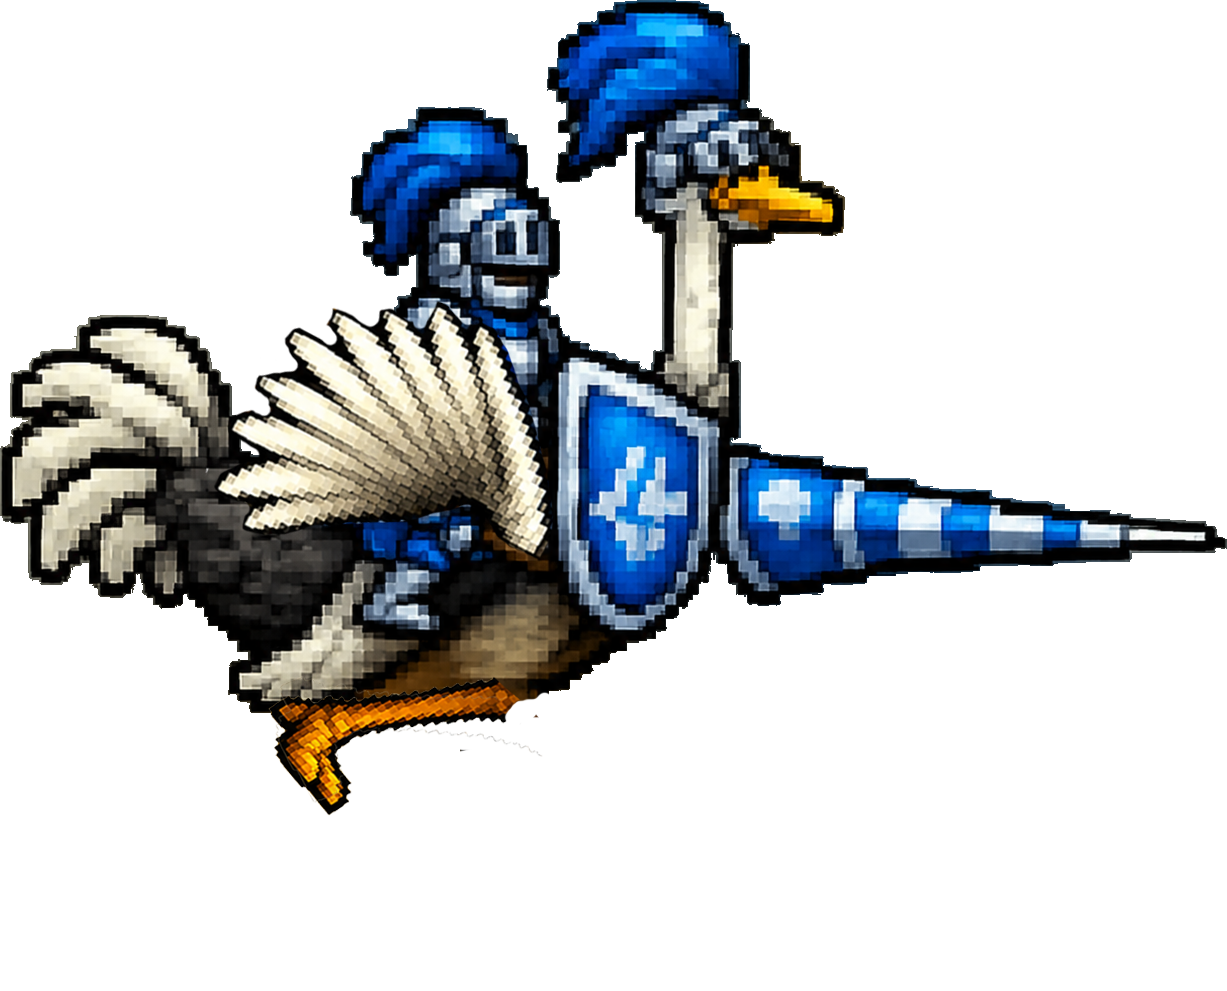
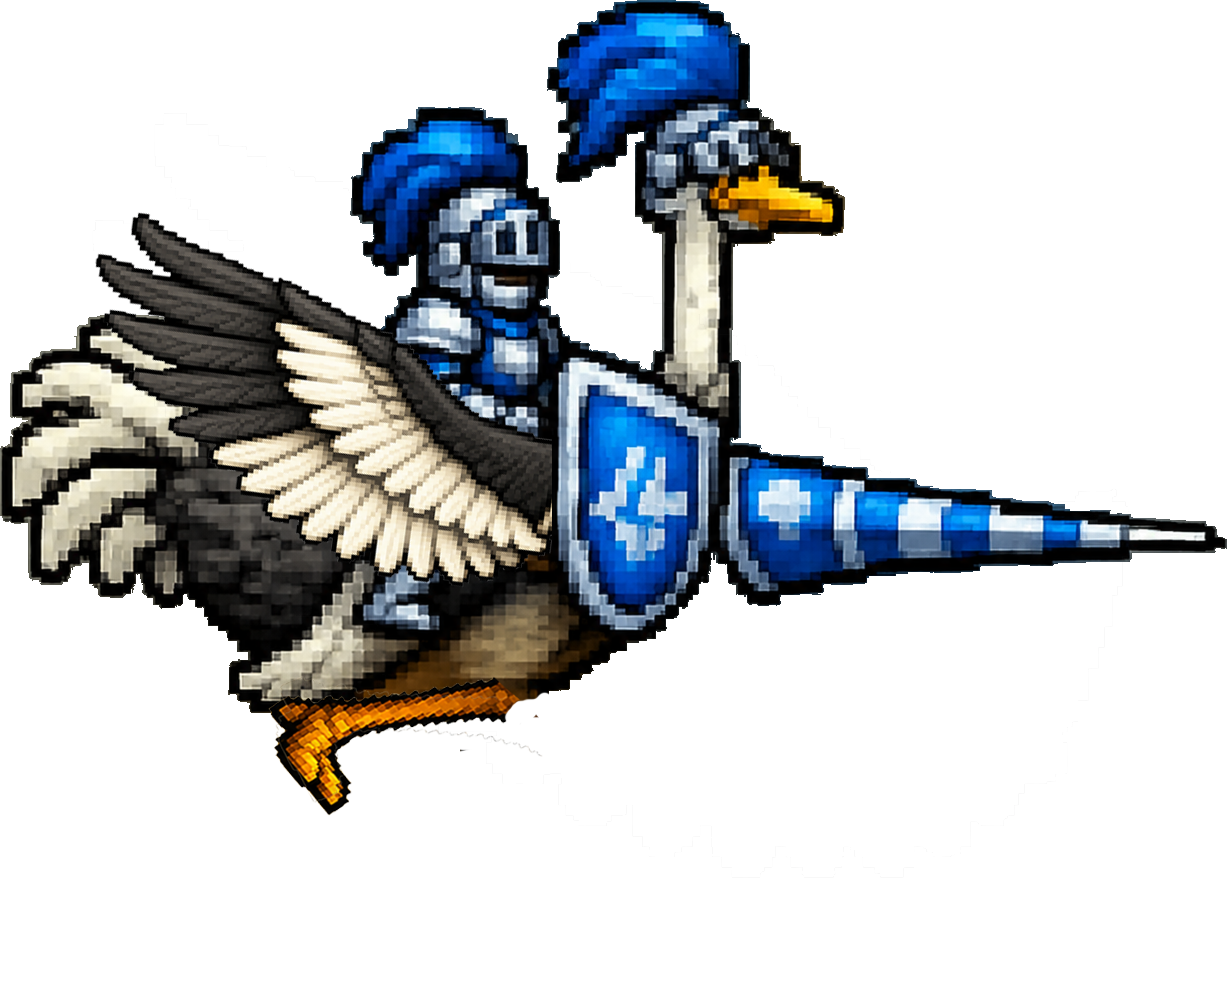
Joust v0.26: platform sprites + base + score window + canvas 900x680

Changed region(s): [[0.0619, 0.2119, 0.4645, 0.6054]]

diff --git a/games/joust.html b/games/joust.html
@@ -3,7 +3,7 @@
 <head>
 <meta charset="UTF-8">
 <meta name="viewport" content="width=device-width, initial-scale=1.0">
-<title>JOUST v0.25 — Arcade Reactor</title>
+<title>JOUST v0.26 — Arcade Reactor</title>
 <link rel="icon" type="image/png" sizes="32x32" href="../assets/favicon-32.png">
 <style>
   * { box-sizing: border-box; }
@@ -17,7 +17,7 @@
     min-height: 100vh;
   }
   .wrap {
-    position: relative; width: 800px; height: 600px;
+    position: relative; width: 900px; height: 680px;
     max-width: 100vw; max-height: 100vh;
     aspect-ratio: 4 / 3;
   }
@@ -85,7 +85,7 @@
 <body>
   <a href="../index.html" class="back-link">← ARCADE REACTOR</a>
   <div class="wrap">
-    <canvas id="game" width="800" height="600"></canvas>
+    <canvas id="game" width="900" height="680"></canvas>
     <div class="hud">
       <div class="hud-section">
         <div><span class="hud-label">SCORE</span><span class="hud-value" id="score">0</span></div>
@@ -102,12 +102,12 @@
       <p style="margin-top: 16px;">A/D or ←→ to move · Space/W/↑ to flap</p>
       <button id="startBtn">START</button>
     </div>
-    <div class="version-tag" id="versionTag">v0.25</div>
+    <div class="version-tag" id="versionTag">v0.26</div>
   </div>
 
 <script>
 //──────────────────────────────────────────────────────────────────────────────
-// JOUST v0.25 — Arcade Reactor
+// JOUST v0.26 — Arcade Reactor
 //──────────────────────────────────────────────────────────────────────────────
 
 const canvas = document.getElementById('game');
@@ -120,6 +120,7 @@ ctx.imageSmoothingEnabled = false;
 
 //── Sprites ──────────────────────────────────────────────────────────────────
 const sprites = {
+  // Birds
   ostrich: new Image(),
   ostrichMove: new Image(),
   ostrichFly: new Image(),
@@ -128,6 +129,18 @@ const sprites = {
   buzzardMove: new Image(),
   buzzardFly: new Image(),
   buzzardFly2: new Image(),
+  // Platform sprites
+  base: new Image(),
+  floorone: new Image(),
+  floortwoleft: new Image(),
+  floortworight: new Image(),
+  floorthreemiddle: new Image(),
+  floorfourleft: new Image(),
+  floorfourright: new Image(),
+  floorfourfarright: new Image(),
+  floorfivemiddle: new Image(),
+  floorsixleft: new Image(),
+  floorsixright: new Image(),
 };
 sprites.ostrich.src     = '../assets/joust/ostrich.png';
 sprites.ostrichMove.src = '../assets/joust/ostrichmove.png';
@@ -137,6 +150,17 @@ sprites.buzzard.src     = '../assets/joust/buzzard.png';
 sprites.buzzardMove.src = '../assets/joust/buzzardmove.png';
 sprites.buzzardFly.src  = '../assets/joust/buzzardfly.png';
 sprites.buzzardFly2.src = '../assets/joust/buzzardfly2.png';
+sprites.base.src              = '../assets/joust/base.png';
+sprites.floorone.src          = '../assets/joust/floorone.png';
+sprites.floortwoleft.src      = '../assets/joust/floortwoleft.png';
+sprites.floortworight.src     = '../assets/joust/floortworight.png';
+sprites.floorthreemiddle.src  = '../assets/joust/floorthreemiddle.png';
+sprites.floorfourleft.src     = '../assets/joust/floorfourleft.png';
+sprites.floorfourright.src    = '../assets/joust/floorfourright.png';
+sprites.floorfourfarright.src = '../assets/joust/floorfourfarright.png';
+sprites.floorfivemiddle.src   = '../assets/joust/floorfivemiddle.png';
+sprites.floorsixleft.src      = '../assets/joust/floorsixleft.png';
+sprites.floorsixright.src     = '../assets/joust/floorsixright.png';
 
 //── Constants ─────────────────────────────────────────────────────────────────
 const GRAVITY        = 280;    // px/sec² — ANTI-gravity feel; speed-boosted flaps dominate
@@ -158,9 +182,9 @@ const BIRD_JOUST_INSET_X = 12;  // horizontal inset for joust collision (exclude
 const LANCE_OFFSET_Y = 22;     // lance is in the MIDDLE of the sprite (helmet above, body below)
 const LANCE_TOLERANCE= 9;      // pixels — if lances within this, both bounce
 
-const LAVA_TOP       = H - 40;
-const LAVA_LEFT_END    = 100;     // lava covers x=0..this on the left bottom
-const LAVA_RIGHT_START = W - 100; // lava covers this..W on the right bottom
+const LAVA_TOP       = H - 50;     // lava surface height
+const LAVA_LEFT_END    = 120;       // matches BASE_WALK_X_START — death zone is corner flame area
+const LAVA_RIGHT_START = W - 120;   // matches BASE_WALK_X_END
 const CEILING        = 28;     // hard ceiling near top
 
 const ENEMY_SPAWN_INTERVAL = 4.0; // sec between spawns (early game)
@@ -198,33 +222,79 @@ const overlay  = document.getElementById('overlay');
 const startBtn = document.getElementById('startBtn');
 
 //── Platforms ────────────────────────────────────────────────────────────────
-// y = top of platform; thickness rendered downward 10px
-// Layout matches the original Joust arcade screenshot:
-//   - Wide rocky BASE platform across the bottom middle (lava on either side)
-//   - Two small corner LEDGES at the very top
-//   - One upper-mid platform
-//   - Two mid platforms (left/right)
-//   - One lower-center platform
-const platforms = [
-  // Top corner ledges (small)
-  { x: 20,  y: 90,  w: 110 },
-  { x: 670, y: 90,  w: 110 },
-  // Upper-mid (single, slightly off-center)
-  { x: 320, y: 200, w: 160 },
-  // Mid level (left and right)
-  { x: 110, y: 320, w: 170 },
-  { x: 520, y: 320, w: 170 },
-  // Lower-center (the "special" platform)
-  { x: 310, y: 440, w: 180 },
-  // BASE — wide rocky floor with lava gaps at the sides
-  { x: 100, y: H - 40, w: 600 },
-];
-const PLATFORM_THICKNESS = 10;
+// Each platform references one of the loaded sprites for rendering.
+// Position is the top-left of the SPRITE; collision uses sprite naturalWidth.
+// Layout matches the joust_field reference image (6 floating rows + base).
+//
+// MIKE: tune these (x, y) positions to nudge the layout. The widths come from
+// the sprite files themselves (loaded async), so they self-size correctly.
+const PLATFORM_THICKNESS = 14;  // top "walking surface" thickness for collision
 
-// Spawn position — center of the BASE platform (x=100, y=H-40, w=600).
-// Materializes there with a sparkle effect at the start of each life.
-const SPAWN_X = 100 + 300 - BIRD_W / 2;  // centered on base
-const SPAWN_Y = (H - 40) - BIRD_H;       // sitting on top of base platform
+const platforms = [
+  // Row 1: single top platform
+  { sprite: 'floorone',          x: 380, y:  95 },
+  // Row 2: left & right small ledges (high)
+  { sprite: 'floortwoleft',      x: 110, y: 180 },
+  { sprite: 'floortworight',     x: 620, y: 180 },
+  // Row 3: single mid platform
+  { sprite: 'floorthreemiddle',  x: 380, y: 290 },
+  // Row 4: left, right, and far-right small
+  { sprite: 'floorfourleft',     x:  60, y: 360 },
+  { sprite: 'floorfourright',    x: 480, y: 360 },
+  { sprite: 'floorfourfarright', x: 770, y: 390 },
+  // Row 5: wide middle platform
+  { sprite: 'floorfivemiddle',   x: 330, y: 460 },
+  // Row 6: low left and right
+  { sprite: 'floorsixleft',      x: 150, y: 540 },
+  { sprite: 'floorsixright',     x: 600, y: 540 },
+];
+
+// The BASE platform is special — spans the full width with built-in score
+// window and corner flame lanterns. Its collision shape excludes the corner
+// flame zones (those are death zones, equivalent to lava).
+const BASE_HEIGHT_GUESS = 110;             // approximate base sprite height
+const BASE_TOP_Y_FALLBACK = H - BASE_HEIGHT_GUESS;
+const BASE_WALK_X_START = 120;             // left edge of safe walking area (right of left flame)
+const BASE_WALK_X_END   = W - 120;         // right edge of safe walking area (left of right flame)
+const BASE_WALK_TOP_Y_INSET = 28;          // how far below the sprite top the walkable surface sits
+
+// Returns the current base platform collision rect — computed each frame
+// from the base sprite's actual size so it stays accurate as sprites load.
+function getBaseCollisionRect() {
+  const baseH = (sprites.base && sprites.base.complete && sprites.base.naturalHeight > 0)
+                ? sprites.base.naturalHeight
+                : BASE_HEIGHT_GUESS;
+  const topY = H - baseH + BASE_WALK_TOP_Y_INSET;
+  return {
+    x: BASE_WALK_X_START,
+    y: topY,
+    w: BASE_WALK_X_END - BASE_WALK_X_START,
+    sprite: 'base',
+    isBase: true,
+  };
+}
+
+// Returns the platform width for collision — uses sprite naturalWidth if
+// loaded, falls back to a sane default.
+function platformWidth(p) {
+  const s = sprites[p.sprite];
+  if (s && s.complete && s.naturalWidth > 0) return s.naturalWidth;
+  return 160; // fallback width
+}
+
+// Returns the active platforms list for collision/rendering (floats + base).
+function getAllPlatforms() {
+  const out = [];
+  for (const p of platforms) {
+    out.push({ x: p.x, y: p.y, w: platformWidth(p), sprite: p.sprite });
+  }
+  out.push(getBaseCollisionRect());
+  return out;
+}
+
+// Spawn position — center of the base platform's safe walking area.
+const SPAWN_X = (BASE_WALK_X_START + BASE_WALK_X_END) / 2 - BIRD_W / 2;
+const SPAWN_Y = BASE_TOP_Y_FALLBACK + BASE_WALK_TOP_Y_INSET - BIRD_H;
 
 //── Player ───────────────────────────────────────────────────────────────────
 const player = {
@@ -530,7 +600,8 @@ function updateLivesHUD() {
 // Call AFTER updating b.x with vx * dt. Pushes the bird back out the
 // side it came from.
 function resolveHorizontalPlatformCollisions(b) {
-  for (const p of platforms) {
+  const allP = getAllPlatforms();
+  for (const p of allP) {
     const bb = birdBox(b);
     const pb = { x: p.x, y: p.y, w: p.w, h: PLATFORM_THICKNESS };
     if (rectOverlap(bb, pb)) {
@@ -541,12 +612,10 @@ function resolveHorizontalPlatformCollisions(b) {
   }
 }
 
-// Resolve vertical collisions for a bird against all platforms.
-// Call AFTER updating b.y with vy * dt. Returns true if the bird is
-// now standing on top of a platform (used for onGround tracking).
 function resolveVerticalPlatformCollisions(b) {
   let onGround = false;
-  for (const p of platforms) {
+  const allP = getAllPlatforms();
+  for (const p of allP) {
     const bb = birdBox(b);
     const pb = { x: p.x, y: p.y, w: p.w, h: PLATFORM_THICKNESS };
     if (rectOverlap(bb, pb)) {
@@ -848,7 +917,8 @@ function update(dt) {
       if (egg.x > W) egg.x = -EGG_W;
 
       // Try to land on a platform
-      for (const p of platforms) {
+      const allP = getAllPlatforms();
+      for (const p of allP) {
         if (egg.vy >= 0 &&
             egg.x + EGG_W > p.x && egg.x < p.x + p.w &&
             egg.y + EGG_H >= p.y && egg.y + EGG_H <= p.y + PLATFORM_THICKNESS + Math.abs(egg.vy * dt) + 2) {
@@ -1025,67 +1095,81 @@ function drawBackground() {
 }
 
 function drawPlatforms() {
-  for (const p of platforms) {
-    // Body
+  // First the base (rendered scaled to canvas width, bottom-anchored)
+  const baseS = sprites.base;
+  if (baseS && baseS.complete && baseS.naturalWidth > 0) {
+    const baseW = baseS.naturalWidth;
+    const baseH = baseS.naturalHeight;
+    const scale = W / baseW;
+    const drawH = baseH * scale;
+    ctx.drawImage(baseS, 0, H - drawH, W, drawH);
+    // Cover the placeholder "0123456789" digits with the actual score.
+    drawBaseScoreOverlay(drawH);
+  } else {
+    // Fallback: dark slab
     ctx.fillStyle = COLOR_PLATFORM;
-    ctx.fillRect(p.x, p.y, p.w, PLATFORM_THICKNESS);
-    // Top edge (slightly brighter for definition)
+    ctx.fillRect(0, H - 80, W, 80);
     ctx.fillStyle = COLOR_PLATFORM_EDGE;
-    ctx.fillRect(p.x, p.y, p.w, 2);
+    ctx.fillRect(BASE_WALK_X_START, H - 80, BASE_WALK_X_END - BASE_WALK_X_START, 2);
+  }
+
+  // Then the floating platforms
+  for (const p of platforms) {
+    const s = sprites[p.sprite];
+    if (s && s.complete && s.naturalWidth > 0) {
+      ctx.drawImage(s, p.x, p.y);
+    } else {
+      // Fallback colored rect while sprite loads
+      const w = platformWidth(p);
+      ctx.fillStyle = COLOR_PLATFORM;
+      ctx.fillRect(p.x, p.y, w, PLATFORM_THICKNESS);
+      ctx.fillStyle = COLOR_PLATFORM_EDGE;
+      ctx.fillRect(p.x, p.y, w, 2);
+    }
   }
 }
 
-let lavaWavePhase = 0;
+// Draws the score INSIDE the base's built-in score window. Covers the
+// "0123456789" placeholder digits so they don't show through.
+// drawnBaseH is the on-canvas height the base sprite is rendered at.
+function drawBaseScoreOverlay(drawnBaseH) {
+  // Estimated position of the score window relative to base sprite:
+  //   horizontal: from ~32% to ~52% of canvas width
+  //   vertical:   from ~62% to ~78% of drawnBaseH (measured from base top)
+  // TUNE THESE if the score doesn't sit perfectly in the window.
+  const winX  = W * 0.32;
+  const winW  = W * 0.20;
+  const winY  = (H - drawnBaseH) + drawnBaseH * 0.62;
+  const winH  = drawnBaseH * 0.16;
+
+  // Dark fill over the placeholder digits in case they show through
+  ctx.fillStyle = 'rgba(20, 8, 4, 0.95)';
+  ctx.fillRect(winX, winY, winW, winH);
+
+  // Real score in golden yellow, monospace, right-aligned in the window
+  ctx.save();
+  ctx.fillStyle = '#ffd040';
+  ctx.font = `bold ${Math.floor(winH * 0.72)}px "Press Start 2P", monospace`;
+  ctx.textAlign = 'right';
+  ctx.textBaseline = 'middle';
+  ctx.fillText(score.toString().padStart(6, '0'),
+               winX + winW - 8,
+               winY + winH / 2);
+  ctx.restore();
+}
+
+// drawLava is no longer needed — the base sprite has built-in flame lanterns
+// at the corners. Kept as a no-op so existing render-loop call doesn't break.
 function drawLava(dt) {
-  lavaWavePhase += dt * 2;
-  ctx.fillStyle = COLOR_LAVA;
-  // Left lava strip
-  ctx.fillRect(0, LAVA_TOP, LAVA_LEFT_END, H - LAVA_TOP);
-  // Right lava strip
-  ctx.fillRect(LAVA_RIGHT_START, LAVA_TOP, W - LAVA_RIGHT_START, H - LAVA_TOP);
-  // Wavy bright top on both strips
-  ctx.fillStyle = COLOR_LAVA_HOT;
-  for (let x = 0; x < LAVA_LEFT_END; x += 3) {
-    const wave = Math.sin(x * 0.08 + lavaWavePhase) * 3 + Math.sin(x * 0.18 + lavaWavePhase * 1.7) * 1.5;
-    ctx.fillRect(x, LAVA_TOP - 1 + wave, 3, 2);
-  }
-  for (let x = LAVA_RIGHT_START; x < W; x += 3) {
-    const wave = Math.sin(x * 0.08 + lavaWavePhase) * 3 + Math.sin(x * 0.18 + lavaWavePhase * 1.7) * 1.5;
-    ctx.fillRect(x, LAVA_TOP - 1 + wave, 3, 2);
-  }
-  // Iconic flame columns at the inner edges of each lava pit
-  // (where the lava troll's hand will eventually reach from)
-  drawFlame(LAVA_LEFT_END - 4, LAVA_TOP);
-  drawFlame(LAVA_RIGHT_START + 4, LAVA_TOP);
-}
-
-// Small animated flame for the lava pit edges
-function drawFlame(x, baseY) {
-  const t = lavaWavePhase * 1.5;
-  const h = 26 + Math.sin(t * 3) * 4;
-  // Outer flame (orange)
-  ctx.fillStyle = 'rgba(255, 140, 60, 0.85)';
-  ctx.beginPath();
-  ctx.moveTo(x - 5, baseY);
-  ctx.quadraticCurveTo(x - 7 + Math.sin(t * 2.5) * 2, baseY - h * 0.5, x, baseY - h);
-  ctx.quadraticCurveTo(x + 7 + Math.sin(t * 2.5 + 1.5) * 2, baseY - h * 0.5, x + 5, baseY);
-  ctx.closePath();
-  ctx.fill();
-  // Inner flame (yellow)
-  ctx.fillStyle = 'rgba(255, 220, 100, 0.9)';
-  ctx.beginPath();
-  ctx.moveTo(x - 3, baseY - 2);
-  ctx.quadraticCurveTo(x - 4 + Math.sin(t * 3.2) * 1.5, baseY - h * 0.5, x, baseY - h * 0.85);
-  ctx.quadraticCurveTo(x + 4 + Math.sin(t * 3.2 + 2) * 1.5, baseY - h * 0.5, x + 3, baseY - 2);
-  ctx.closePath();
-  ctx.fill();
+  // intentionally empty
 }
 
 // Find the Y coordinate of the highest platform top directly below the bird.
 // Used for casting a dynamic shadow. Returns null if no platform is below.
 function findShadowY(b) {
   let bestY = null;
-  for (const p of platforms) {
+  const allP = getAllPlatforms();
+  for (const p of allP) {
     if (p.x < b.x + BIRD_W && p.x + p.w > b.x && p.y >= b.y + BIRD_H) {
       if (bestY === null || p.y < bestY) bestY = p.y;
     }